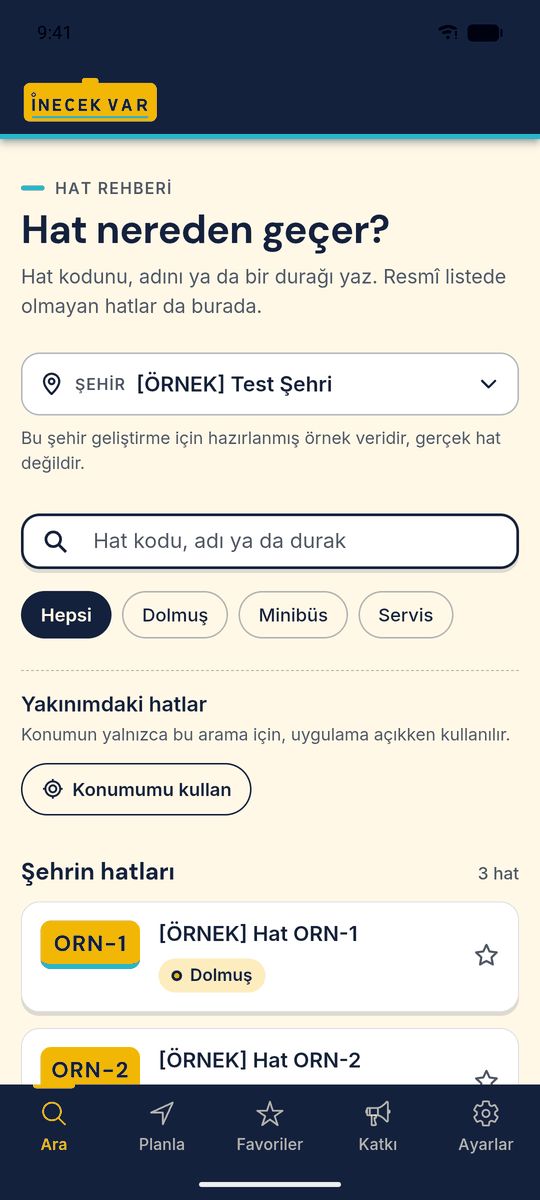
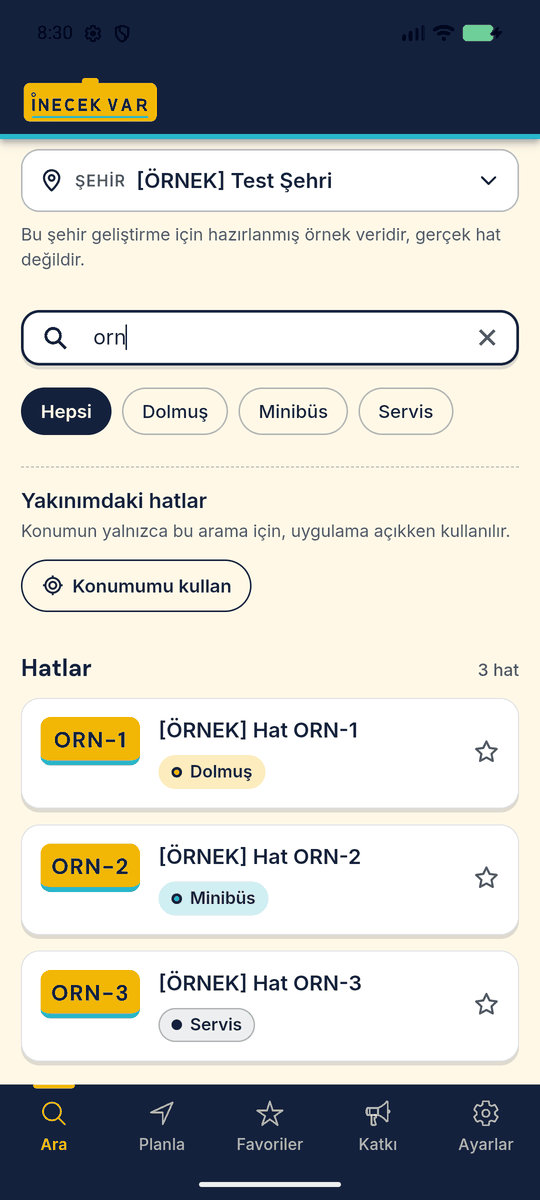
docs(readme): retake the Inecek Var card with the new web home and the search, pack and planner screens

diff --git a/README.tr.md b/README.tr.md
@@ -45,10 +45,10 @@ Her proje için bir kart. Kadro'nun, Askıda'nın, Cetele'nin ve Inecek Var'ın 
       <sub><b>Cetele</b>: web ana sayfası ve Android müşteri listesi (yerel sunucu, örnek veri) · <a href="https://ayberkaarda.github.io/Mobiles-5in-One/cetele/">web demo</a></sub>
     </td>
     <td width="50%" align="center">
-      <img src="docs/readme/inecekvar.png" alt="Inecek Var kartı: örnek şehirli web ana sayfası ve Android hat sayfası, yerel yığın, örnek veri" width="100%"><br>
+      <img src="docs/readme/inecekvar.png" alt="Inecek Var kartı: slogan, etiketli örnek şehir ve üç adımla web ana sayfası ve Android hat sayfası, yerel yığın, örnek veri" width="100%"><br>
       <img src="inecekvar/docs/screenshots/readme/01-search-sample-city.png" alt="Inecek Var Android uygulaması: etiketli örnek şehir ve hatlarıyla arama ekranı, emülatör" width="32%">
-      <img src="inecekvar/docs/screenshots/readme/02-line-page.png" alt="Inecek Var Android uygulaması: beş durak üzerinde çizilmiş güzergâh, ücret, saatler ve ödeme ile hat sayfası, örnek veri, emülatör" width="32%">
-      <img src="inecekvar/docs/screenshots/readme/03-planner.png" alt="Inecek Var Android uygulaması: hat, tahmini süre ve ücret ile adım adım A'dan B'ye rota sonucu, örnek veri, emülatör" width="32%"><br>
+      <img src="inecekvar/docs/screenshots/readme/02-city-pack.png" alt="Inecek Var Android uygulaması: örnek şehir paketi kurulu, sürümü ve boyutuyla çevrimdışı şehirler ekranı, emülatör" width="32%">
+      <img src="inecekvar/docs/screenshots/readme/03-planner.png" alt="Inecek Var Android uygulaması: iki durağı dolu A'dan B'ye planlayıcı ve hat, tahmini süre ve ücretle sonuç, örnek veri, emülatör" width="32%"><br>
       <sub><b>Inecek Var</b>: web ana sayfası ve Android hat ekranları (yerel yığın, örnek veri) · <a href="https://ayberkaarda.github.io/Mobiles-5in-One/inecekvar/">web demo</a></sub>
     </td>
   </tr>

diff --git a/README.md b/README.md
@@ -45,10 +45,10 @@ One card per project. Kadro, Askıda, Cetele and Inecek Var have applications. E
       <sub><b>Cetele</b>: web home page and Android customer list (local server, sample data) · <a href="https://ayberkaarda.github.io/Mobiles-5in-One/cetele/">web demo</a></sub>
     </td>
     <td width="50%" align="center">
-      <img src="docs/readme/inecekvar.png" alt="Inecek Var card: web home page with the sample city and the Android line page, local stack, sample data" width="100%"><br>
+      <img src="docs/readme/inecekvar.png" alt="Inecek Var card: web home page with the tagline, the labelled sample city and the three steps, and the Android line page, local stack, sample data" width="100%"><br>
       <img src="inecekvar/docs/screenshots/readme/01-search-sample-city.png" alt="Inecek Var Android app: search screen with the labelled sample city and its lines, emulator" width="32%">
-      <img src="inecekvar/docs/screenshots/readme/02-line-page.png" alt="Inecek Var Android app: line page with the route drawn over five stops, fare, hours and payment, sample data, emulator" width="32%">
-      <img src="inecekvar/docs/screenshots/readme/03-planner.png" alt="Inecek Var Android app: A to B planner result with the line, estimated time and fare and the steps, sample data, emulator" width="32%"><br>
+      <img src="inecekvar/docs/screenshots/readme/02-city-pack.png" alt="Inecek Var Android app: offline cities screen with the sample city pack installed, its version and size, emulator" width="32%">
+      <img src="inecekvar/docs/screenshots/readme/03-planner.png" alt="Inecek Var Android app: A to B planner with both stops filled and the result with the line, estimated time and fare, sample data, emulator" width="32%"><br>
       <sub><b>Inecek Var</b>: web home page and Android line screens (local stack, sample data) · <a href="https://ayberkaarda.github.io/Mobiles-5in-One/inecekvar/">web demo</a></sub>
     </td>
   </tr>
